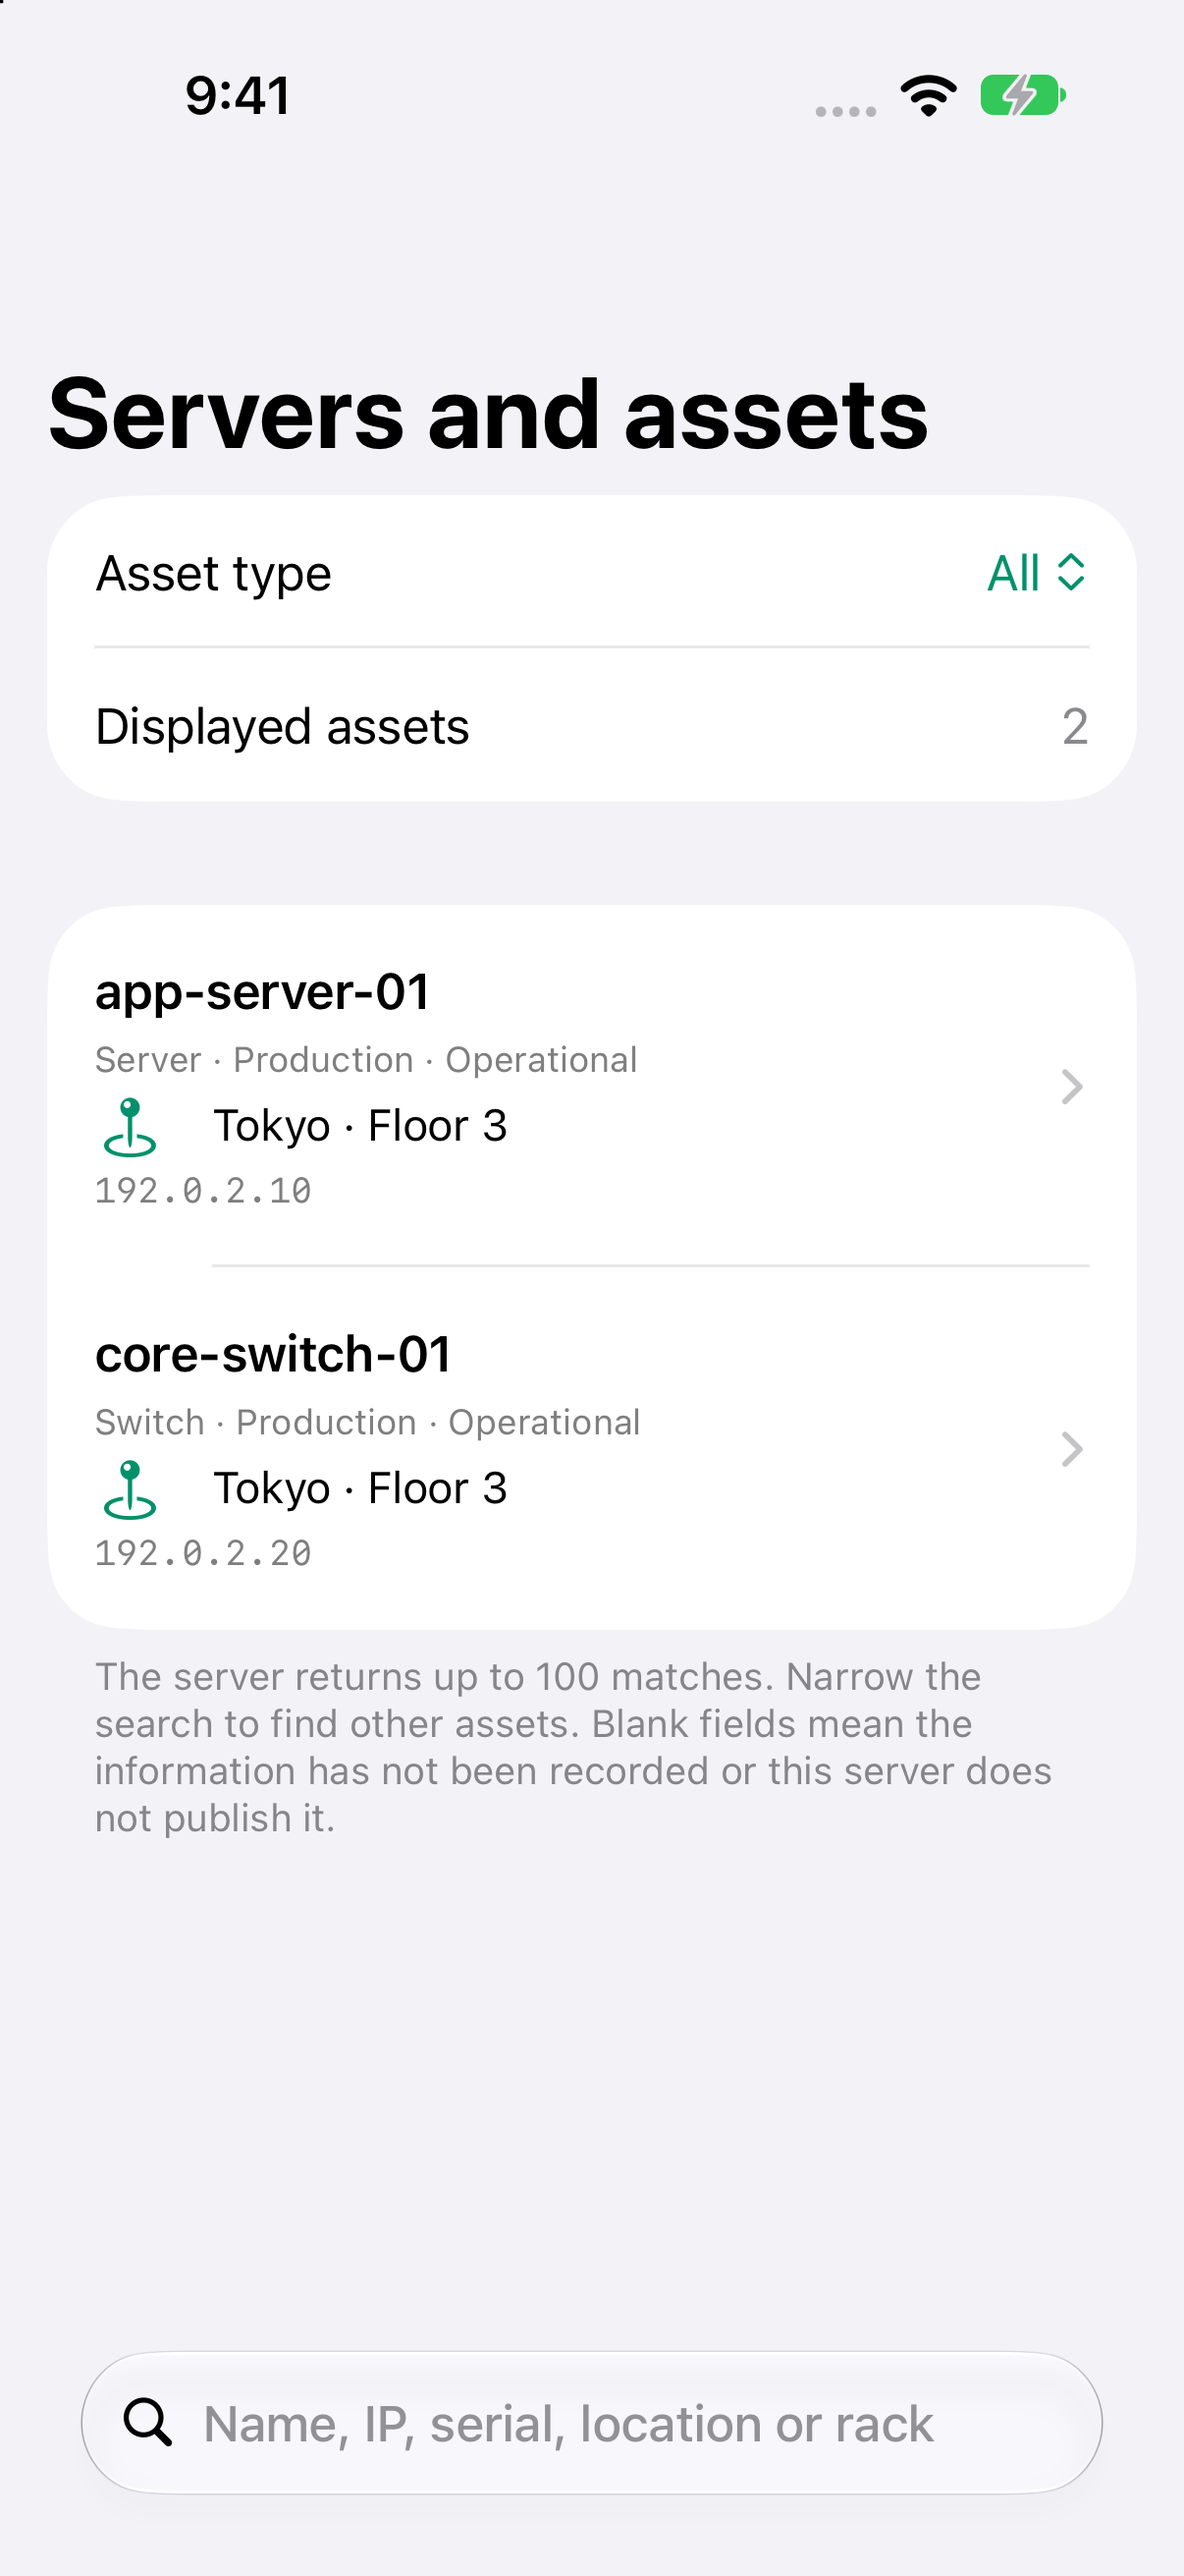
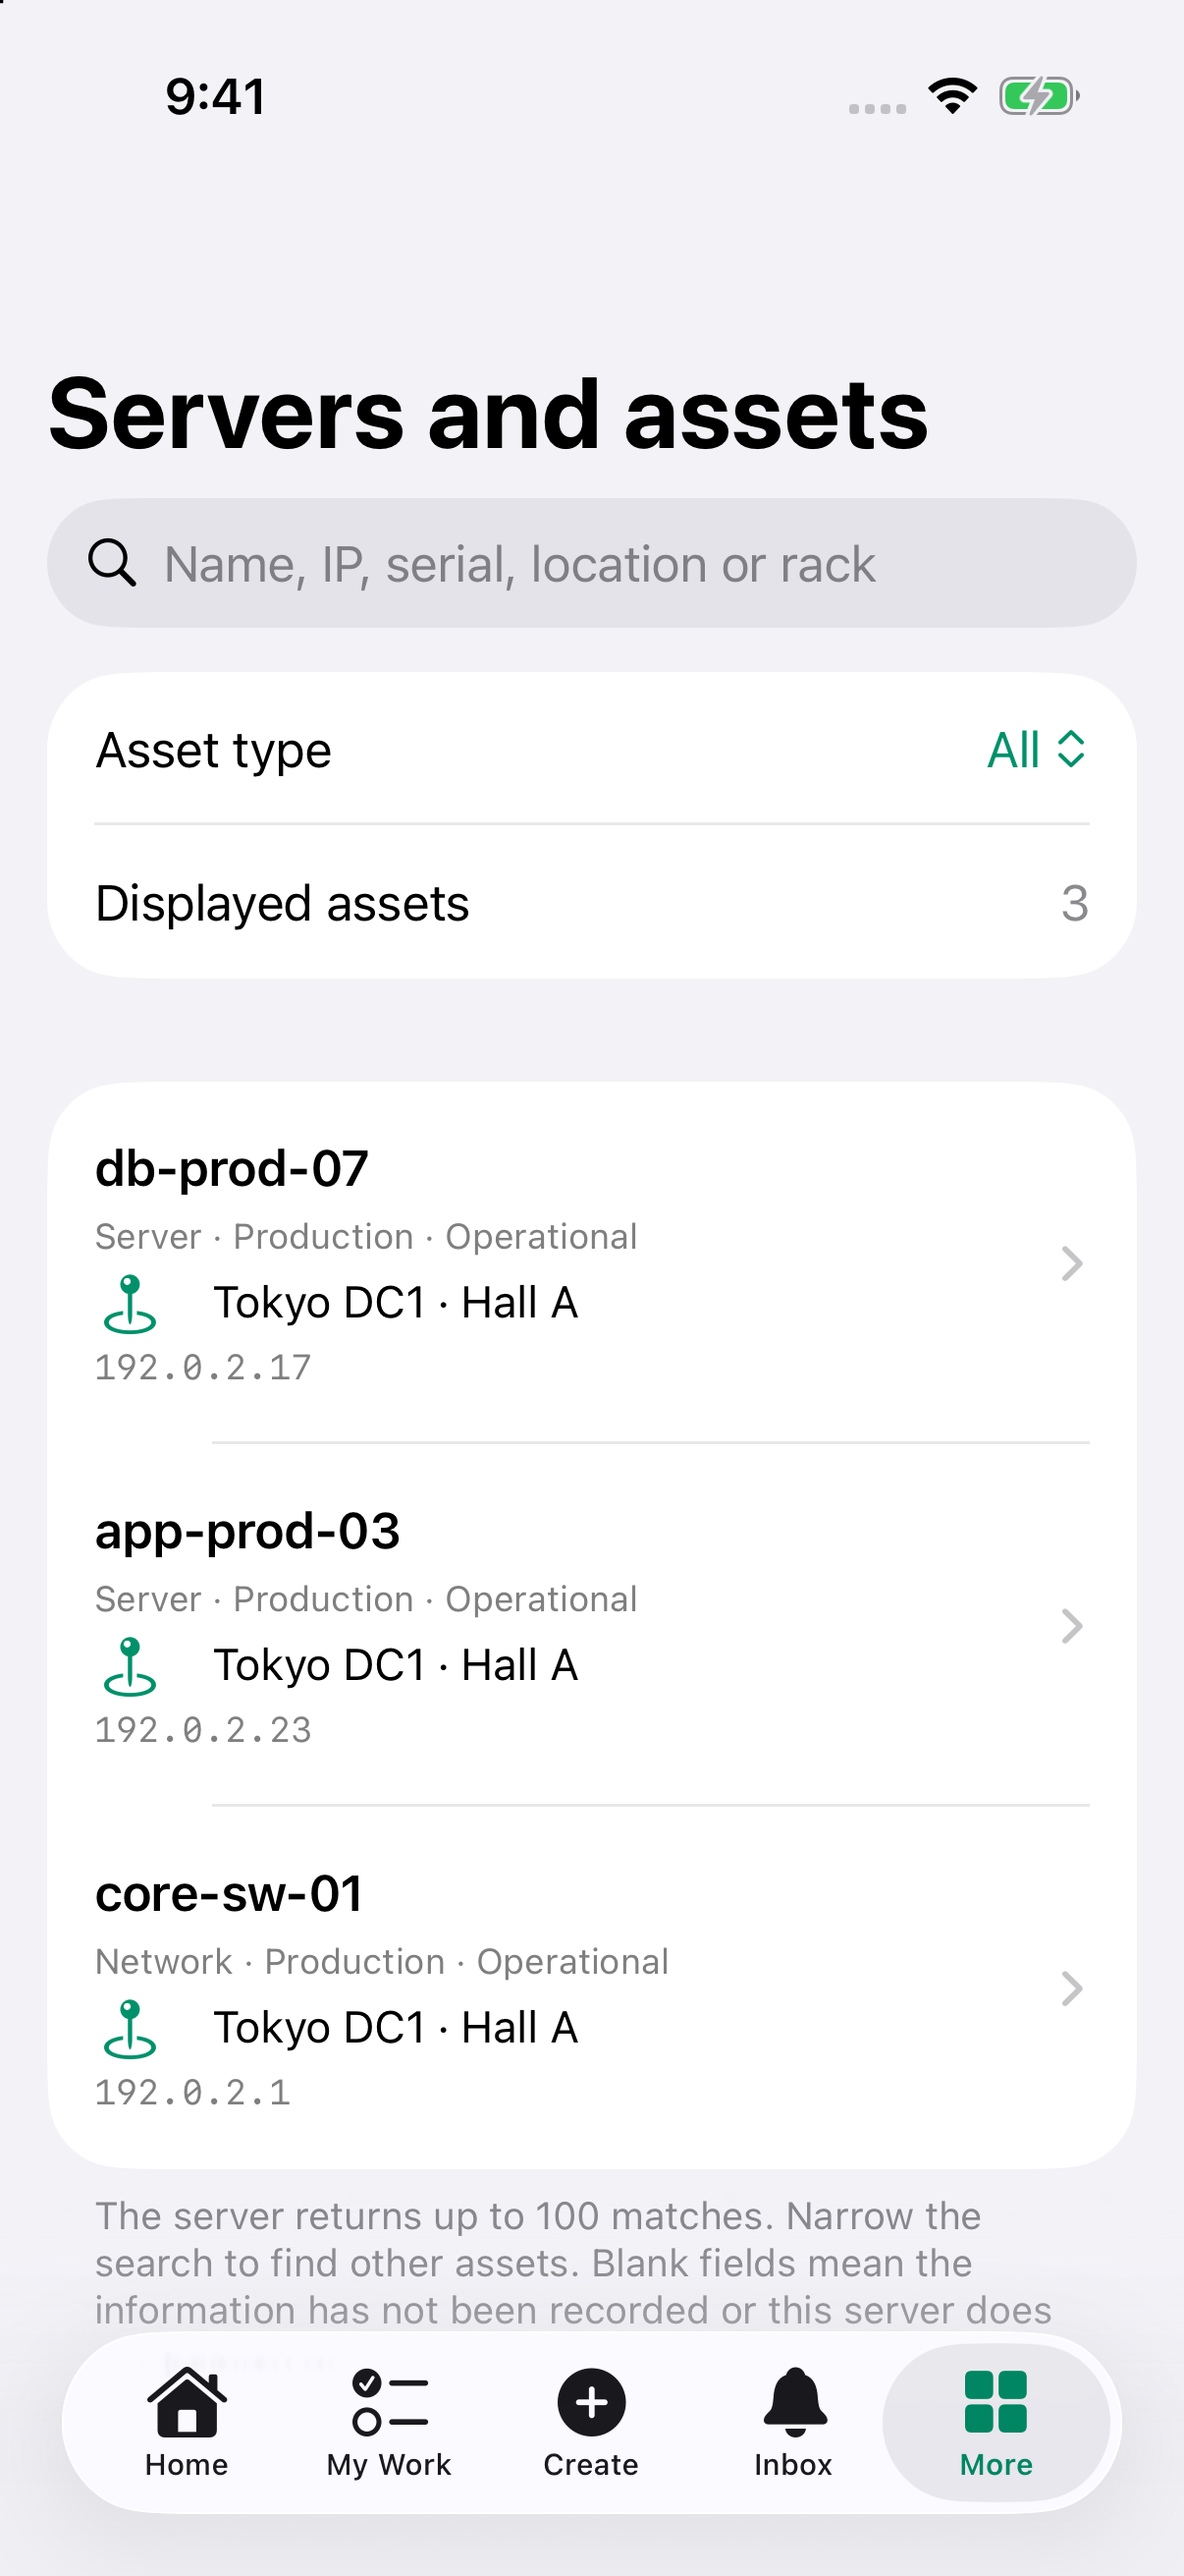
docs: refresh iOS previews for current mobile workflows

diff --git a/README.md b/README.md
@@ -20,13 +20,14 @@ Current app version: **1.3.2 (build 8)**
 
 ## Screenshots
 
-The current simulator captures use non-sensitive example records. Optional rack totals depend on the server response.
+Refreshed **11 October 2026** from the current app on an **iPhone 17 Pro simulator (iOS 26.5)**, using non-sensitive example records. Optional rack totals depend on the server response. [Capture details](docs/screenshots/capture-manifest.json).
 
 ### Everyday work
 
 <table>
 <tr><td width="50%"><img src="docs/screenshots/iphone-login.png" alt="ServiceOps login page"><br><sub>Server-aware sign-in</sub></td><td width="50%"><img src="docs/screenshots/iphone-home.png" alt="ServiceOps home dashboard"><br><sub>Home overview and quick actions</sub></td></tr>
 <tr><td width="50%"><img src="docs/screenshots/iphone-work.png" alt="ServiceOps ticket list"><br><sub>My Work: incidents and changes</sub></td><td width="50%"><img src="docs/screenshots/iphone-ticket.png" alt="ServiceOps ticket detail"><br><sub>Record details and status updates</sub></td></tr>
+<tr><td width="50%"><img src="docs/screenshots/iphone-ticket-infrastructure.png" alt="Ticket linked configuration item, rack destination and information sections"><br><sub>Linked infrastructure and authorized information</sub></td><td width="50%"><img src="docs/screenshots/iphone-change-details.png" alt="Expanded change dates, implementation, test and backout plans"><br><sub>Expanded change schedule and plans</sub></td></tr>
 <tr><td width="50%"><img src="docs/screenshots/iphone-create.png" alt="ServiceOps incident creation form"><br><sub>Create an incident</sub></td><td width="50%"><img src="docs/screenshots/iphone-inbox.png" alt="ServiceOps notification inbox"><br><sub>Ticket and approval notifications</sub></td></tr>
 </table>
 
@@ -85,9 +86,7 @@ local device inventories. The repository `.gitignore` excludes these files.
 
 ## Screenshot maintenance
 
-Repository images were captured from the real iPhone simulator build with
-non-sensitive fixture records. The temporary capture fixture was removed after
-capture, so no demo-data or authentication-bypass path ships in source.
+Repository images show the current SwiftUI views rendered in an iPhone simulator, including scrolled ticket sections and expanded change details. Example responses are intercepted in a separate temporary capture build. Fixture data and capture entrypoints are excluded from the published app source.
 
 ## Validation
 
